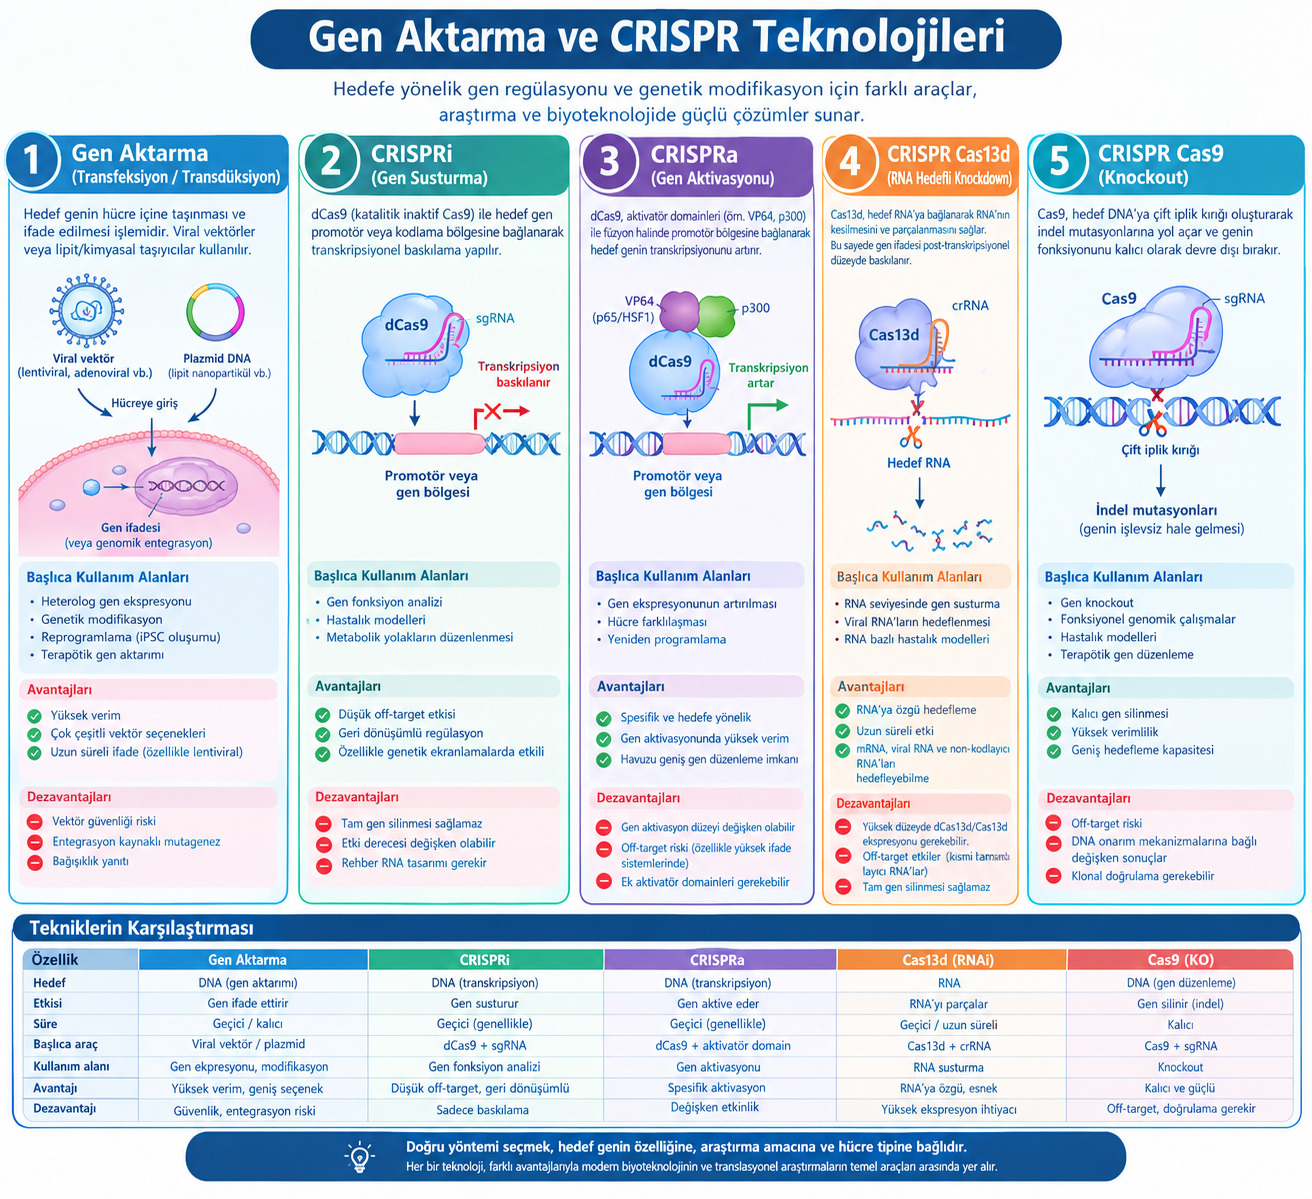
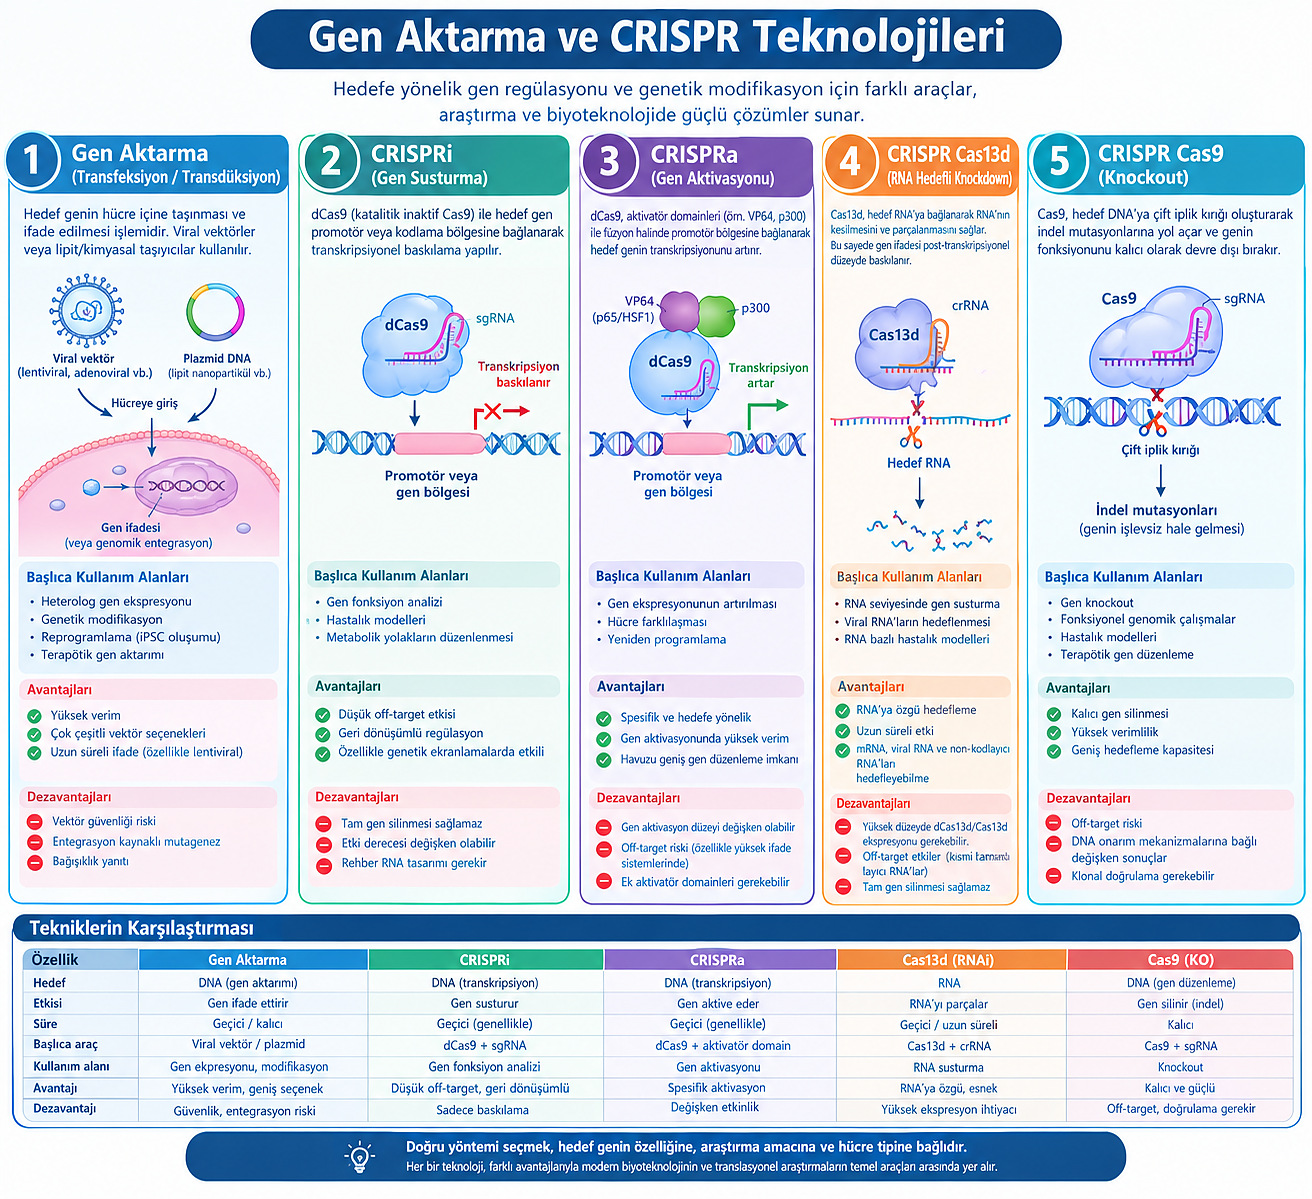
Sharpen the dense infographics for better on-screen legibility
Re-export the four ISO/method infographics with a mild unsharp mask
at native resolution. Verified at 1:1 pixel zoom that the source
extracted from the docx is already sharp — the real ceiling is that
these were pasted into the doc via Google Docs, which downsamples
images on insert, so 1312x1199/1407x768 is the most detail available
without a fresh export from whoever designed them. Bump cache-bust
version so Cloudflare doesn't keep serving the old bytes.

diff --git a/index.html b/index.html
@@ -559,8 +559,8 @@ footer .brand span{color:#fff}
             </ul>
           </div>
           <div class="img-stack">
-            <div class="ph"><img src="assets/images/eksozom-izolasyon-infografik.jpg?v=2" alt="Eksozom izolasyon yöntemleri infografiği" loading="lazy" width="1312" height="1199"></div>
-            <div class="ph"><img src="assets/images/eksozom-karakterizasyon-infografik.jpg?v=2" alt="Eksozom karakterizasyonu infografiği" loading="lazy" width="1407" height="768"></div>
+            <div class="ph"><img src="assets/images/eksozom-izolasyon-infografik.jpg?v=3" alt="Eksozom izolasyon yöntemleri infografiği" loading="lazy" width="1312" height="1199"></div>
+            <div class="ph"><img src="assets/images/eksozom-karakterizasyon-infografik.jpg?v=3" alt="Eksozom karakterizasyonu infografiği" loading="lazy" width="1407" height="768"></div>
           </div>
           <p class="svc-note">Fiyat ve hizmet şartları için bizimle iletişime geçebilirsiniz.</p>
         </div>
@@ -570,7 +570,7 @@ footer .brand span{color:#fff}
         <summary><span class="n">H-06</span><h3><span data-i18n="gen.h3">Memeli ve Prokaryotik Hücrelerde Gen ve Transkripsiyon Düzenleme İşlemleri</span></h3><span class="chev" aria-hidden="true">+</span></summary>
         <div class="svc-body" data-i18n-html="gen.body">
           <ul><li>Gen aktarımı</li><li>CRISPR Cas13d aracılı kalıcı knockdown</li><li>CRISPR Cas9 ile gen knockout</li></ul>
-          <div class="ph"><img src="assets/images/gen-crispr-infografik.jpg?v=2" alt="Gen aktarma ve CRISPR teknolojileri infografiği" loading="lazy" width="1312" height="1199"></div>
+          <div class="ph"><img src="assets/images/gen-crispr-infografik.jpg?v=3" alt="Gen aktarma ve CRISPR teknolojileri infografiği" loading="lazy" width="1312" height="1199"></div>
           <p class="svc-note">Fiyat ve hizmet şartları için bizimle iletişime geçebilirsiniz.</p>
         </div>
       </details>
@@ -645,7 +645,7 @@ footer .brand span{color:#fff}
               <p>Antimikrobiyal duyarlılık testleri, CLSI M02 ve M100 kılavuzlarında belirtilen kriterlere uygun olarak disk difüzyon yöntemiyle de sunulmaktadır.</p>
             </div>
           </div>
-          <div class="ph"><img src="assets/images/antimikrobiyal-infografik.jpg?v=2" alt="Antimikrobiyal analiz hizmetleri infografiği" loading="lazy" width="1312" height="1199"></div>
+          <div class="ph"><img src="assets/images/antimikrobiyal-infografik.jpg?v=3" alt="Antimikrobiyal analiz hizmetleri infografiği" loading="lazy" width="1312" height="1199"></div>
           <p class="svc-note">Fiyat ve hizmet şartları için bizimle iletişime geçebilirsiniz.</p>
         </div>
       </details>
@@ -901,13 +901,13 @@ const i18n={
         </ul>
       </div>
       <div class="img-stack">
-            <div class="ph"><img src="assets/images/eksozom-izolasyon-infografik.jpg?v=2" alt="Eksozom izolasyon yöntemleri infografiği" loading="lazy" width="1312" height="1199"></div>
-            <div class="ph"><img src="assets/images/eksozom-karakterizasyon-infografik.jpg?v=2" alt="Eksozom karakterizasyonu infografiği" loading="lazy" width="1407" height="768"></div>
+            <div class="ph"><img src="assets/images/eksozom-izolasyon-infografik.jpg?v=3" alt="Eksozom izolasyon yöntemleri infografiği" loading="lazy" width="1312" height="1199"></div>
+            <div class="ph"><img src="assets/images/eksozom-karakterizasyon-infografik.jpg?v=3" alt="Eksozom karakterizasyonu infografiği" loading="lazy" width="1407" height="768"></div>
           </div>
       <p class="svc-note">Fiyat ve hizmet şartları için bizimle iletişime geçebilirsiniz.</p>`,
     'gen.h3':'Memeli ve Prokaryotik Hücrelerde Gen ve Transkripsiyon Düzenleme İşlemleri',
     'gen.body':`<ul><li>Gen aktarımı</li><li>CRISPR Cas13d aracılı kalıcı knockdown</li><li>CRISPR Cas9 ile gen knockout</li></ul>
-      <div class="ph"><img src="assets/images/gen-crispr-infografik.jpg?v=2" alt="Gen aktarma ve CRISPR teknolojileri infografiği" loading="lazy" width="1312" height="1199"></div>
+      <div class="ph"><img src="assets/images/gen-crispr-infografik.jpg?v=3" alt="Gen aktarma ve CRISPR teknolojileri infografiği" loading="lazy" width="1312" height="1199"></div>
       <p class="svc-note">Fiyat ve hizmet şartları için bizimle iletişime geçebilirsiniz.</p>`,
     'mtt.h3':'MTT Analizi',
     'mtt.body':`<ul>
@@ -960,7 +960,7 @@ const i18n={
           <p>Antimikrobiyal duyarlılık testleri, CLSI M02 ve M100 kılavuzlarında belirtilen kriterlere uygun olarak disk difüzyon yöntemiyle de sunulmaktadır.</p>
         </div>
       </div>
-      <div class="ph"><img src="assets/images/antimikrobiyal-infografik.jpg?v=2" alt="Antimikrobiyal analiz hizmetleri infografiği" loading="lazy" width="1312" height="1199"></div>
+      <div class="ph"><img src="assets/images/antimikrobiyal-infografik.jpg?v=3" alt="Antimikrobiyal analiz hizmetleri infografiği" loading="lazy" width="1312" height="1199"></div>
       <p class="svc-note">Fiyat ve hizmet şartları için bizimle iletişime geçebilirsiniz.</p>`,
     'markalar.eyebrow':'Yetkili Temsilcisi Olduğumuz Markalar','markalar.h2':'Temsil ettiğimiz markalar',
     'markalar.p':'Diğer marka logoları ve ürün grupları eklendikçe bu alan güncellenecek.',
@@ -1113,13 +1113,13 @@ const i18n={
         </ul>
       </div>
       <div class="img-stack">
-            <div class="ph"><img src="assets/images/eksozom-izolasyon-infografik.jpg?v=2" alt="Exosome isolation methods infographic" loading="lazy" width="1312" height="1199"></div>
-            <div class="ph"><img src="assets/images/eksozom-karakterizasyon-infografik.jpg?v=2" alt="Exosome characterization infographic" loading="lazy" width="1407" height="768"></div>
+            <div class="ph"><img src="assets/images/eksozom-izolasyon-infografik.jpg?v=3" alt="Exosome isolation methods infographic" loading="lazy" width="1312" height="1199"></div>
+            <div class="ph"><img src="assets/images/eksozom-karakterizasyon-infografik.jpg?v=3" alt="Exosome characterization infographic" loading="lazy" width="1407" height="768"></div>
           </div>
       <p class="svc-note">Please contact us for pricing and service terms.</p>`,
     'gen.h3':'Gene and Transcription Regulation in Mammalian and Prokaryotic Cells',
     'gen.body':`<ul><li>Gene transfer</li><li>CRISPR Cas13d–mediated permanent knockdown</li><li>Gene knockout with CRISPR Cas9</li></ul>
-      <div class="ph"><img src="assets/images/gen-crispr-infografik.jpg?v=2" alt="Gene transfer and CRISPR technologies infographic" loading="lazy" width="1312" height="1199"></div>
+      <div class="ph"><img src="assets/images/gen-crispr-infografik.jpg?v=3" alt="Gene transfer and CRISPR technologies infographic" loading="lazy" width="1312" height="1199"></div>
       <p class="svc-note">Please contact us for pricing and service terms.</p>`,
     'mtt.h3':'MTT Assay',
     'mtt.body':`<ul>
@@ -1172,7 +1172,7 @@ const i18n={
           <p>Antimicrobial susceptibility testing is also offered via the disk diffusion method, in accordance with the criteria specified in the CLSI M02 and M100 guidelines.</p>
         </div>
       </div>
-      <div class="ph"><img src="assets/images/antimikrobiyal-infografik.jpg?v=2" alt="Antimicrobial testing services infographic" loading="lazy" width="1312" height="1199"></div>
+      <div class="ph"><img src="assets/images/antimikrobiyal-infografik.jpg?v=3" alt="Antimicrobial testing services infographic" loading="lazy" width="1312" height="1199"></div>
       <p class="svc-note">Please contact us for pricing and service terms.</p>`,
     'markalar.eyebrow':'Brands We Represent','markalar.h2':'Brands we represent',
     'markalar.p':'This area will be updated as more brand logos and product groups are added.',
@@ -1325,13 +1325,13 @@ const i18n={
         </ul>
       </div>
       <div class="img-stack">
-            <div class="ph"><img src="assets/images/eksozom-izolasyon-infografik.jpg?v=2" alt="エクソソーム単離方法のインフォグラフィック" loading="lazy" width="1312" height="1199"></div>
-            <div class="ph"><img src="assets/images/eksozom-karakterizasyon-infografik.jpg?v=2" alt="エクソソームキャラクタリゼーションのインフォグラフィック" loading="lazy" width="1407" height="768"></div>
+            <div class="ph"><img src="assets/images/eksozom-izolasyon-infografik.jpg?v=3" alt="エクソソーム単離方法のインフォグラフィック" loading="lazy" width="1312" height="1199"></div>
+            <div class="ph"><img src="assets/images/eksozom-karakterizasyon-infografik.jpg?v=3" alt="エクソソームキャラクタリゼーションのインフォグラフィック" loading="lazy" width="1407" height="768"></div>
           </div>
       <p class="svc-note">価格およびサービス条件についてはお問い合わせください。</p>`,
     'gen.h3':'哺乳類・原核細胞における遺伝子・転写制御処理',
     'gen.body':`<ul><li>遺伝子導入</li><li>CRISPR Cas13dによる恒久的ノックダウン</li><li>CRISPR Cas9による遺伝子ノックアウト</li></ul>
-      <div class="ph"><img src="assets/images/gen-crispr-infografik.jpg?v=2" alt="遺伝子導入・CRISPR技術のインフォグラフィック" loading="lazy" width="1312" height="1199"></div>
+      <div class="ph"><img src="assets/images/gen-crispr-infografik.jpg?v=3" alt="遺伝子導入・CRISPR技術のインフォグラフィック" loading="lazy" width="1312" height="1199"></div>
       <p class="svc-note">価格およびサービス条件についてはお問い合わせください。</p>`,
     'mtt.h3':'MTTアッセイ',
     'mtt.body':`<ul>
@@ -1384,7 +1384,7 @@ const i18n={
           <p>CLSI M02およびM100ガイドラインに定められた基準に従い、ディスク拡散法による薬剤感受性試験も提供しています。</p>
         </div>
       </div>
-      <div class="ph"><img src="assets/images/antimikrobiyal-infografik.jpg?v=2" alt="抗菌性試験サービスのインフォグラフィック" loading="lazy" width="1312" height="1199"></div>
+      <div class="ph"><img src="assets/images/antimikrobiyal-infografik.jpg?v=3" alt="抗菌性試験サービスのインフォグラフィック" loading="lazy" width="1312" height="1199"></div>
       <p class="svc-note">価格およびサービス条件についてはお問い合わせください。</p>`,
     'markalar.eyebrow':'正規代理店ブランド','markalar.h2':'取扱ブランド',
     'markalar.p':'他のブランドロゴや製品カテゴリーが追加され次第、このエリアも更新されます。',
